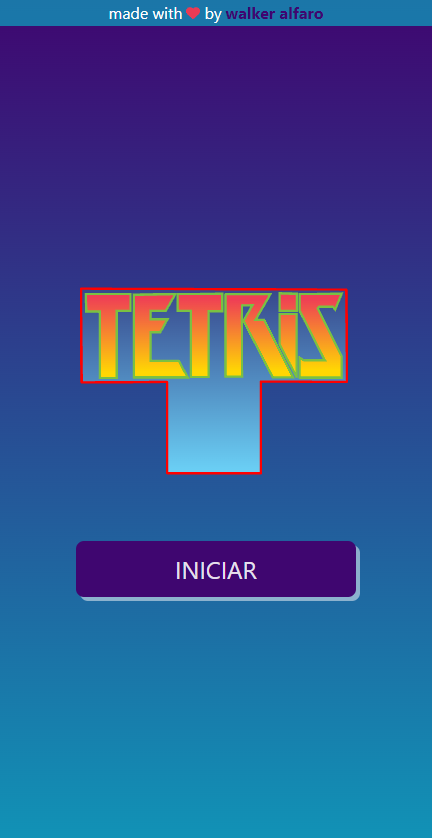
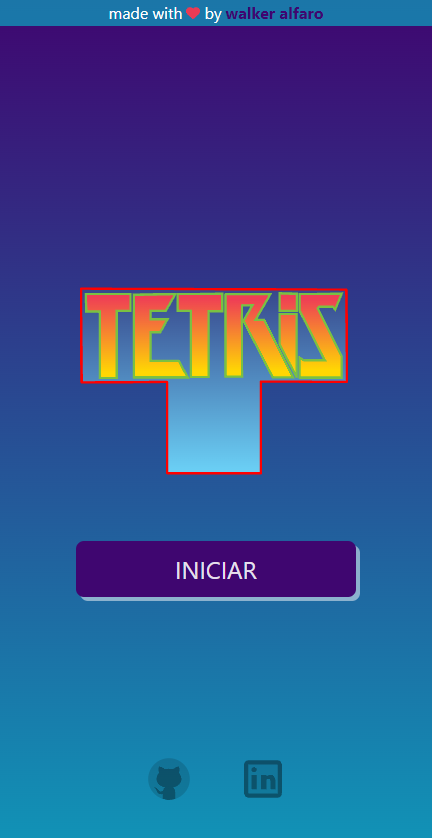
fix url  links

Changed region(s): [[0.5417, 0.8998, 0.662, 0.9618], [0.331, 0.8998, 0.4514, 0.9618]]

diff --git a/index.html b/index.html
@@ -23,10 +23,10 @@
     <img class="start_screen_logo" src="./tetris_logo.svg" alt="logo de tetris">
     <button class="play_button">INICIAR</button>
     <div class="links">
-      <a href="" class="linkedin_url">
+      <a href="https://github.com/walkeralfaro/tetris_game_js.git" class="github_url" target="_blank">
         <img src="./github.svg" alt="github logo">
       </a>
-      <a href="" class="github_url">
+      <a href="https://www.linkedin.com/in/walkeralfaro/" class="linkedin_url" target="_blank">
         <img src="./linkedin.svg" alt="linkedin logo">
       </a>
     </div>

diff --git a/style.css b/style.css
@@ -78,12 +78,6 @@ canvas {
     text-align: center;
     position: absolute;
     top: 90%;
-    /* left: 50%; */
-    /* text-align: center; */
-    /* display: flex; */
-    gap: 20px;
-    /* justify-content: center; */
-    /* margin-top: 60px; */
 
     a img {
       width: 50px;

diff --git a/README.md b/README.md
@@ -11,6 +11,10 @@ Este es el link del juego [Tetris JS][link_demo_tetris]
 
 [link_demo_tetris]: https://tetris.walkeralfaro.com
 
+## Screenshot
+
+### Screen Start
+
 ## Development
 
 ### Game Loop:
